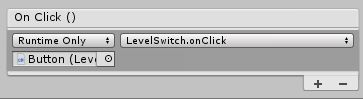
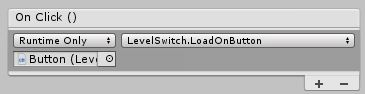
Updated Image

diff --git a/3 Top Down Arcade/Library/LevelSwitcher.cs b/3 Top Down Arcade/Library/LevelSwitcher.cs
@@ -48,6 +48,7 @@ public class LevelSwitcher : MonoBehaviour {
 
 	}
 
+	// Use this to load on a call, such as from a button
 	public void LoadOnButton() {
 		SceneManager.LoadScene(sceneName);
 	}

diff --git a/3 Top Down Arcade/3 Health.md b/3 Top Down Arcade/3 Health.md
@@ -6,7 +6,7 @@ This will look into detecting collisions, tracking health, and some basic enemie
 ## Collision Detection
 
 We already touched on this briefly in the [last lesson](./2%20PlayerInput.md#deleting-bullets). Let's get into it a bit more here.\
-Any object in our game with a [collider](https://docs.unity3d.com/Manual/Collider2D.html) can detect collisions using the ["OnTriggerEnter2D"](https://docs.unity3d.com/ScriptReference/MonoBehaviour.OnTriggerEnter2D.html) function. Here we will only be using 2D colliders.\
+Any object in our game with a [collider](https://docs.unity3d.com/Manual/Collider2D.html) can detect collisions using the ["OnTriggerEnter2D"](https://docs.unity3d.com/ScriptReference/MonoBehaviour.OnTriggerEnter2D.html) function. Here we will only be using 2D colliders.
 
 To start let's create a new sprite in our scene and name it "Enemy". Give it a sprite and a unique color. It also needs a collider. For now our enemy will just be a target and won't retaliate.\
 With that we need to make a new script, let's call it "EnemyHealth". 

diff --git a/3 Top Down Arcade/5 HUD.md b/3 Top Down Arcade/5 HUD.md
@@ -184,7 +184,6 @@ At the bottom you should see the LevelSwitch script. When you hover over this yo
 Well this is because the function is **not** public. Just like variables, if we want to use a function in Unity's editor it must be public.\
 Add the `public` keyword to our function just before `void` and then go back to Unity. You should now see this function on the drop down list.
 
-// UPDATE
 ![ButtonFunctionOnClick](Images/ButtonFunctionOnClick.JPG)
 
 If you run the game and click the button you will be loaded into whatever scene you set the `sceneName` variable to in the LevelSwitch script on our button.
